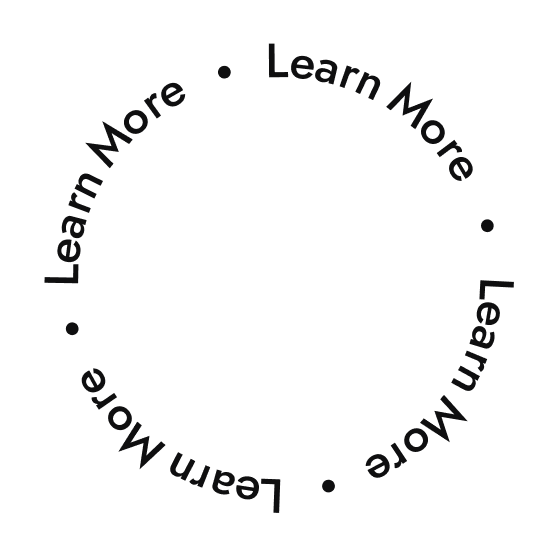
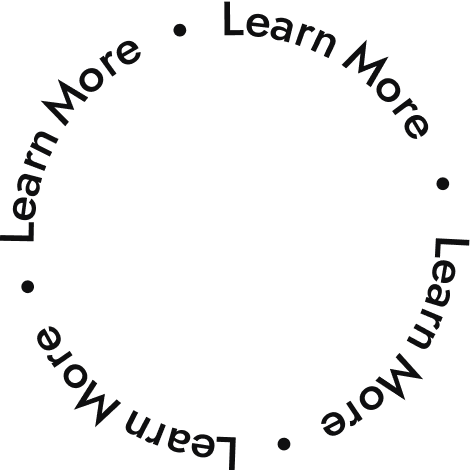
products page done

diff --git a/_layouts/products.html b/_layouts/products.html
@@ -35,10 +35,14 @@
         </div>
         <div class="learn-more-container">
             <img class="learn-more-arrow-down" src="../assets/images/Arrow_Down.svg">
-            <img class="learn-more-circle" src="../assets/images/Learn_More_Circle.png">
+            {% if page.lang == "en" %}
+                <img class="learn-more-circle" src="../assets/images/Learn_More_Circle.png">
+            {% else %}
+                <img class="learn-more-circle" src="../assets/images/Learn_More_Circle_LV.png">
+            {% endif %}
         </div>
         <div class="products-container">
-            <div class="product-container">
+            <div class="product-container" id="product1">
                 <img src="../assets/images/Product_First.png" class="product-image">
                 <div class="product-content-middle">
                     <p class="product-content-middle-first-header">{{ site.data.translations[page.lang].first_product_content_middle_first_header }}</p>
@@ -60,7 +64,7 @@
                     </ul>
                 </div>
             </div>
-            <div class="product-container  product-container-second">
+            <div class="product-container" id="product2">
                 <img src="../assets/images/Product_Second.png" class="product-image">
                 <div class="product-content-middle">
                     <p class="product-content-middle-first-header">{{ site.data.translations[page.lang].second_product_content_middle_first_header}}</p>
@@ -81,7 +85,7 @@
                     </ul>
                 </div>
             </div>
-            <div class="product-container product-container-third">
+            <div class="product-container" id="product3">
                 <img src="../assets/images/Product_Third.png" class="product-image">
                 <div class="product-content-middle">
                     <p class="product-content-middle-first-header">{{ site.data.translations[page.lang].third_product_content_middle_first_header}}</p>
@@ -101,7 +105,7 @@
                     </ul>
                 </div>
             </div>
-            <div class="product-container product-container-forth">
+            <div class="product-container" id="product4">
                 <img src="../assets/images/Product_Forth.png" class="product-image">
                 <div class="product-content-middle">
                     <p class="product-content-middle-first-header">{{ site.data.translations[page.lang].forth_product_content_middle_first_header }}</p>
@@ -122,7 +126,7 @@
                     </ul>
                 </div>
             </div>
-            <div class="product-container product-container-fifth">
+            <div class="product-container" id="product5">
                 <img src="../assets/images/Product_Fifth.png" class="product-image">
                 <div class="product-content-middle">
                     <p class="product-content-middle-first-header">{{ site.data.translations[page.lang].fifth_product_content_middle_first_header }}</p>
@@ -135,7 +139,7 @@
                         <li class="regular-text product-content-middle-list-elem"><span class="custom-bullet"></span>{{ site.data.translations[page.lang].fifth_product_content_middle_list_04 }}</li>
                     </ul>
                 </div>
-                <div class="product-content-right product-container-fifth">
+                <div class="product-content-right">
                     <ul class="product-content-right-list">
                         <li class="regular-text product-content-right-list-elem"><span class="custom-bullet-second"></span>{{ site.data.translations[page.lang].fifth_product_content_right_list_01 }}</li>
                         <li class="regular-text product-content-right-list-elem"><span class="custom-bullet-second"></span>{{ site.data.translations[page.lang].fifth_product_content_right_list_02 }}</li>
@@ -144,9 +148,23 @@
                 </div>
             </div>
         </div>
+        <div class="products-bottom-section-container">
+            <img src="../assets/images/Aurora.svg" class="products-bottom-section-image">
+            <div class="products-bottom-section-right-container">
+                <p class="regular-text products-bottom-section-right-text">{{ site.data.translations[page.lang].products-bottom-section-right-text }}</p>
+            </div>
+            <div class="products-bottom-section-left-container">
+                <div class="products-bottom-section-left-container-content">
+                    <p class="products-bottom-section-left-container-content-header">{{ site.data.translations[page.lang].products-bottom-section-left-container-content-header }}</p>
+                    <button class="products-bottom-section-left-container-button"><p class="products-bottom-section-left-container-button-text">{{ site.data.translations[page.lang].products-bottom-section-left-container-button-text }}</p><img class="angled-arrow" ></button>
+                </div>
+            </div>
+        </div>
+      
     </div>
     {% include footer.html %}  <!-- Reusable Footer -->
     {% include loader.html %}
 </body>
 <script type="text/javascript" src="../assets/scripts/languageButton.js"></script>
+<script type="text/javascript" src="../assets/scripts/stackingAnim.js"></script>
 </html>

diff --git a/assets/css/products.css b/assets/css/products.css
@@ -67,9 +67,9 @@
 }
 .learn-more-circle{
     position: absolute;
-    top:0;
-    left: 0;
-    width:12.9vw;
+    top:1.45vw;
+    left: 1.45vw;
+    width:10vw;
     animation: rotating 15s linear infinite;
 }
 @keyframes rotating {
@@ -80,39 +80,41 @@
         transform: rotate(1turn);
     }
 }
-.products-container{
-    position: relative;
+.products-container {
     margin-left: -1.35vw;
-    height: 218vw;
+    position: relative; /* Ensures child elements respect z-index */
+    margin-bottom: 10.5vw;
 }
-.product-container{
-    position: absolute;
+
+.product-container {
+    position: sticky;
+    top: 1vw;
     border-top-left-radius: 2vw;
-    border-top-right-radius:2vw;
-    box-shadow: 0  -0.13vw 0.2vw rgba(15, 15, 16,0.15);
-    height: 39.1vw;
+    border-top-right-radius: 2vw;
+    box-shadow: 0 -0.13vw 0.2vw rgba(15, 15, 16, 0.15);
+    height: 43.6vw;
     width: 94.6vw;
     display: grid;
     grid-template-columns: 31vw 27.7vw 27.7vw;
     gap: 4vw;
     padding-top: 4.5vw;
-    padding-left:2.7vw ;
+    padding-left: 2.7vw;
     padding-right: 2.7vw;
+    z-index: 0; /* Start with all having 0 z-index */
+    transition: z-index 0.3s ease-out;
+    background-color: #F0F0F2;
 }
-.product-container-second{
-    top:43.6vw;
+
+#product2 {
     z-index: 1;
 }
-.product-container-third{
-    top:87.2vw;
+#product3 {
     z-index: 2;
 }
-.product-container-forth{
-    top:130.8vw;
+#product4 {
     z-index: 3;
 }
-.product-container-fifth{
-    top:174.4vw;
+#product5 {
     z-index: 4;
 }
 .product-image{
@@ -168,4 +170,85 @@
     border-top: 0.07vw solid #779FEE;
     flex-shrink: 0;
     margin-top: -1.25vw;
+}
+
+.products-bottom-section-image{
+    width:97vw;
+   
+}
+.products-bottom-section-container{
+    margin-bottom: 10.5vw;
+    position: relative;
+}
+.products-bottom-section-right-container{
+    position: absolute;
+    width: 28vw;
+    height:11.1vw;
+    background-color: #0F0F10;
+    border-radius: 1.4vw;
+    top: 3.4vw;
+    left: 65.5vw;
+    z-index: 1;
+    align-content: center;
+}
+.products-bottom-section-right-text{
+    width: 24vw;
+    margin: auto;
+    margin-top: auto;
+    color: #D2D4D9;
+    
+}
+.products-bottom-section-left-container{
+    height: 23vw;
+    width:31.7vw;
+    position: absolute;
+    top: 17.3vw;
+    left: 3.5vw;
+    background: url('../images/Folder.svg') no-repeat center;
+    background-size: cover;
+    align-content: center;
+}
+.products-bottom-section-left-container-content{
+    margin: auto;
+    width: 26.6vw;
+    height: 13.1vw;
+}
+.products-bottom-section-left-container-content-header{
+    color:#0F0F10;
+    font-size: 2vw;
+    font-family: "Mulish", Arial, sans-serif;
+    font-weight: 700;
+}
+.products-bottom-section-left-container-button{
+    width:10.41vw;
+    height: 3.5vw;
+    border-radius: 1vw;
+    background-color: #0F0F10;
+    display: grid;
+    grid-template-columns: auto auto;
+    gap: 0.4vw;
+    color:#F0F0F2;
+    align-content: center;
+    margin-top: 2.2vw;
+}
+.products-bottom-section-left-container-button > .angled-arrow
+{
+    width: 1vw;
+    height: 1vw;
+    content:url("../images/Angled_Arrow.svg");
+    margin-top: 0.25vw;
+}
+.products-bottom-section-left-container-button:hover > .angled-arrow
+{
+    content:url("../images/Angled_Arrow_Black.svg");
+}
+.products-bottom-section-left-container-button:hover{
+    background-color: transparent;
+    color:#0F0F10;
+}
+.products-bottom-section-left-container-button-text{
+    text-align: right;
+    font-family: "Jost", Arial, sans-serif;
+    font-weight: 500;
+    font-size: 1vw;
 }

diff --git a/assets/scripts/stackingAnim.js b/assets/scripts/stackingAnim.js
@@ -1,0 +1,33 @@
+/*document.addEventListener("DOMContentLoaded", function () {
+    const products = document.querySelectorAll(".product-container");
+    let lastScrollTop = window.scrollY || document.documentElement.scrollTop;
+
+    window.addEventListener("scroll", function () {
+        let scrollTop = window.scrollY || document.documentElement.scrollTop;
+        let scrollingDown = scrollTop > lastScrollTop;
+        lastScrollTop = scrollTop;
+
+        let stackedCount = 0;
+
+        products.forEach((product, index) => {
+            let rect = product.getBoundingClientRect();
+            
+            if (rect.top <= 0) {
+                product.style.zIndex = stackedCount + 1;
+                stackedCount++;
+            } else {
+                product.style.zIndex = 0;
+            }
+        });
+
+        // Reverse unstacking when scrolling up
+        if (!scrollingDown) {
+            for (let i = products.length - 1; i >= 0; i--) {
+                let rect = products[i].getBoundingClientRect();
+                if (rect.top > 0) {
+                    products[i].style.zIndex = 0;
+                }
+            }
+        }
+    });
+});*/

diff --git a/assets/css/home.css b/assets/css/home.css
@@ -28,6 +28,9 @@
     font-weight: 400;
     font-style: normal;
 }
+html, body {
+    overflow-x: hidden;
+  }
 .main-header{
     position: absolute;
     display: flex;

diff --git a/assets/css/general.css b/assets/css/general.css
@@ -19,7 +19,6 @@
 }
 html, body {
   max-width: 100%;
-  overflow-x: hidden;
 }
 .highlight-text{
   color:#779FEE;
